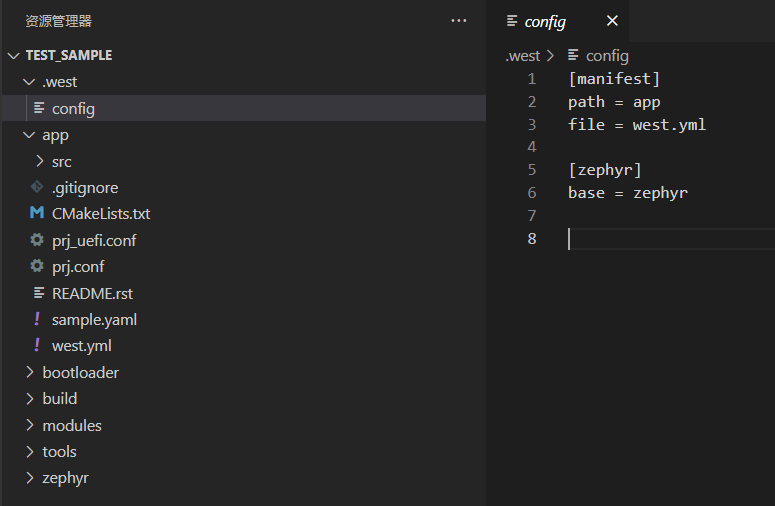
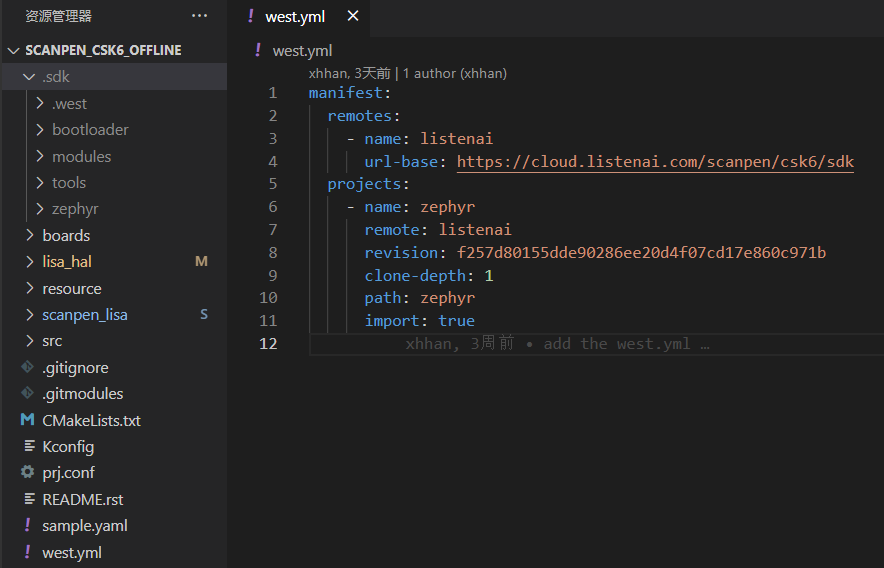
应用级项目章节修改

diff --git a/tool/application_project.md b/tool/application_project.md
@@ -9,7 +9,7 @@
 :::
 
 :::tip
-该功能特性仅在插件 `1.5.0` 及以上版本支持，执行 `lisa info zephyr` 检查本地的插件版本，并可通过 `lisa update zephyr` 更新到最新插件版本。
+该功能特性仅在插件 `1.5.1` 及以上版本支持，执行 `lisa info zephyr` 检查本地的插件版本，并可通过 `lisa update zephyr` 更新到最新插件版本。
 :::
 
 ## 应用获取
@@ -28,11 +28,11 @@ lisa zep create --from-git https://cloud.listenai.com/listenai_zbzhao/test_sampl
 
 ![image](./images/app_proj_1.png)
 
-- `test_sample` 目录下，为一个应用级的项目。
+- `scanpen_csk6_offline` 目录下，为一个应用级的项目。
 
-- 应用代码存放在 `app` 目录中。
+- 提货单的project均存放在 `.sdk` 目录中。
 
-- 配置存放在 `.west/config` 中，如图中所示，提货单为 `app/west.yml`，整个项目都基于该提货单进行拉取对应modules。该项目的 sdk 代码存放在 `zephyr` 中。
+- 配置存放在 `.sdk/.west/config` 中，如图中所示，提货单为 `./west.yml`，整个项目都基于该提货单进行拉取对应modules。该项目的 sdk 代码存放在 `.sdk/zephyr` 中。
 
 - 其余目录均为提货单中配置的该项目所需。
 
